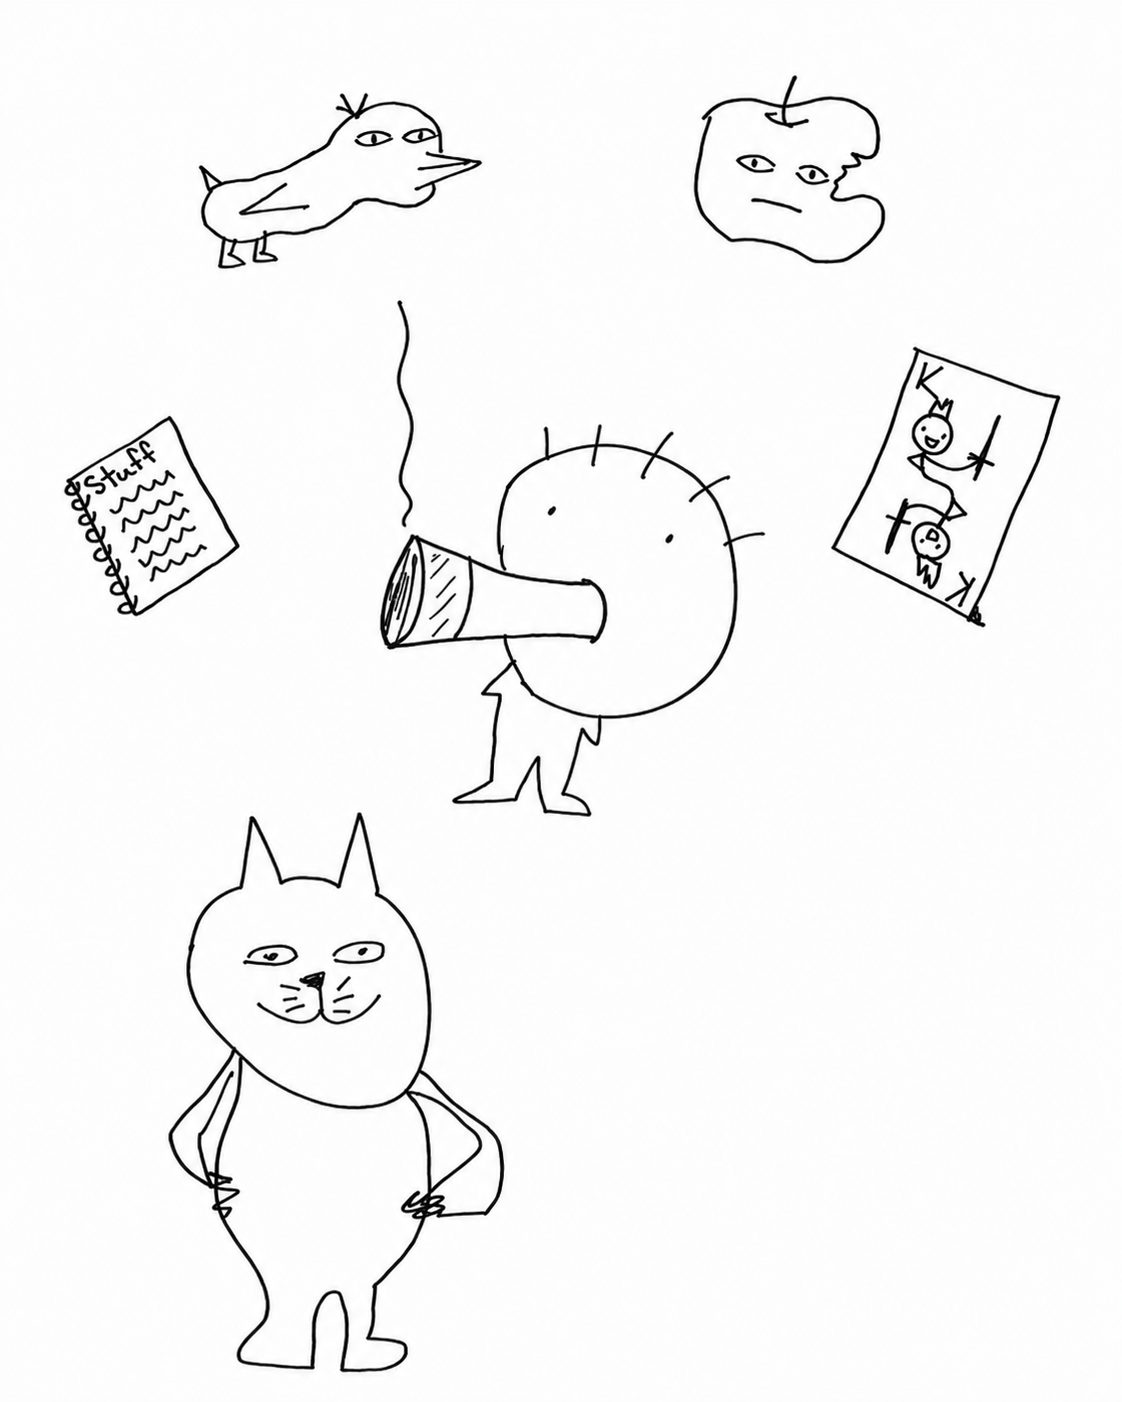
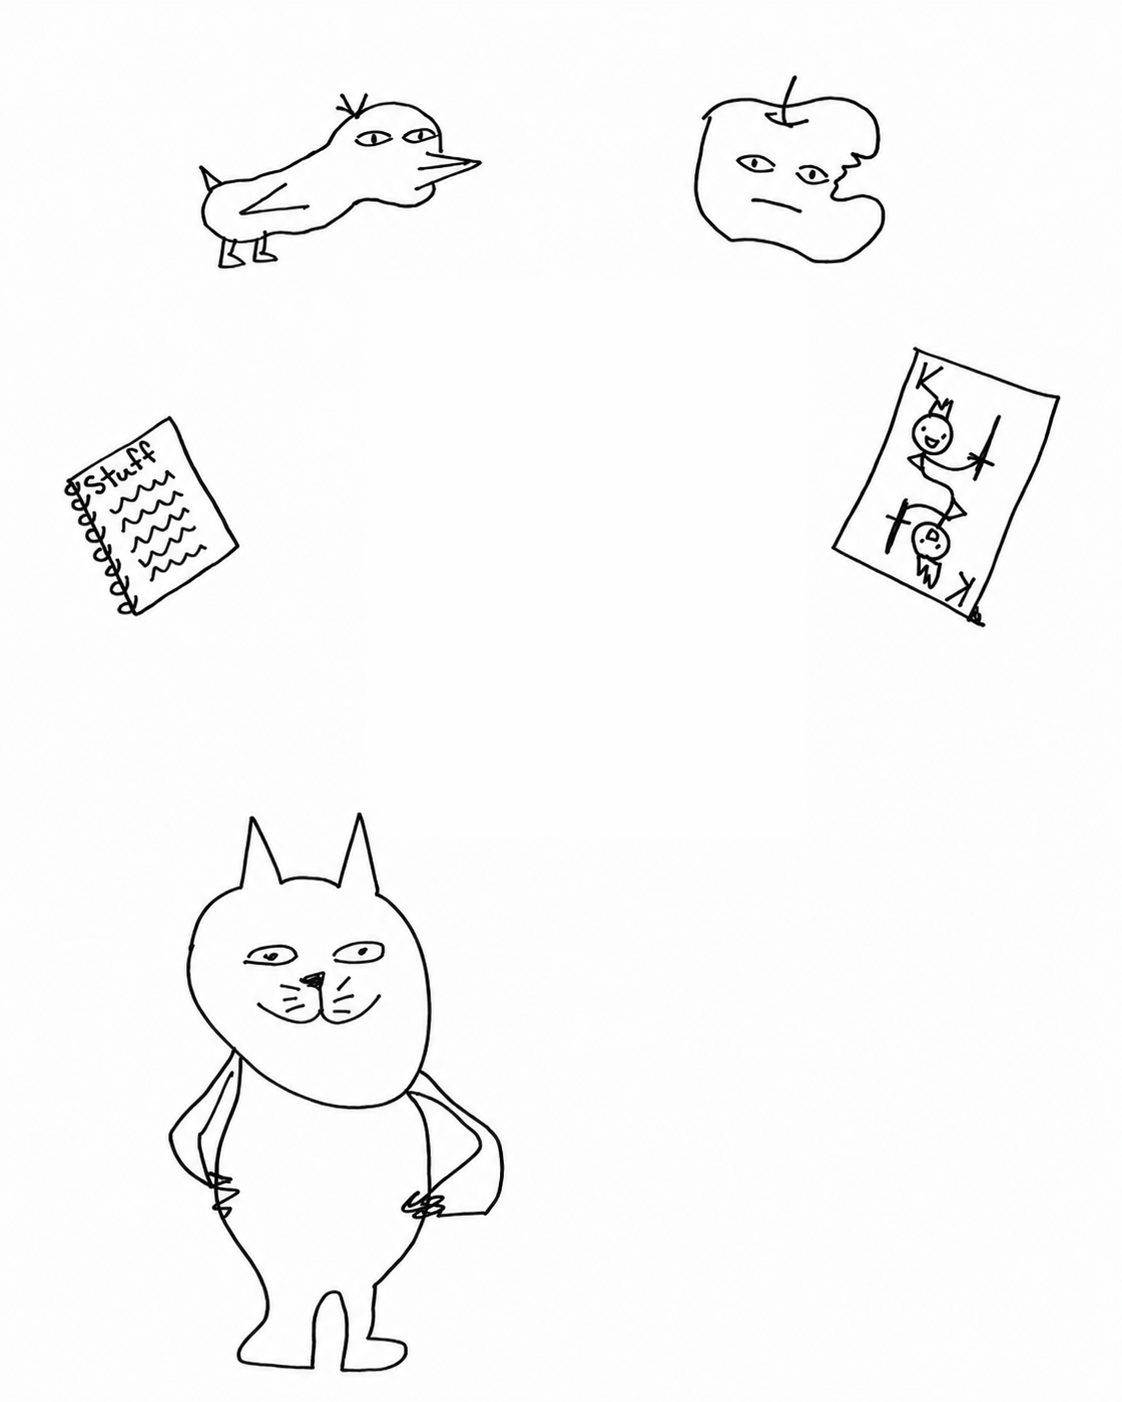
Put the new board doodle where the megaphone guy was
The LinkedIn hotspot was an invisible region over the megaphone guy, who
lived in the portrait raster, so handing the slot to the face pinned to
the board today meant erasing his ink first: body, megaphone, its
hatching, the eyes and the wisp above him, out of me.png with the jpg
and webp re-encoded from it at the quality they were made with. The
erase window stops short of the cat's right ear where it pokes into
that corner.

The doodle arrives the way the Bart hint did — board strokes through the
board's own path builder, simplified to a sub-pixel tolerance, scaled
into the same 1024-unit space. Its native pen weight would render at
~6.5px, so the stroke-width is 6.4 viewBox units, which lands on the
~2 CSS px line the bird and the cat are drawn with at 34% of the paper.
The hotspot drops its height so the drawing's own aspect sets the hit
box, and the link gets an aria-label now that it holds no text.

diff --git a/index.html b/index.html
@@ -249,7 +249,7 @@
         .bird     { top: 6%;  left: 18%;  width: 24%; height: 16%; }
         .apple    { top: 5%;  right: 16%; width: 18%; height: 16%; }
         .notebook { top: 27%; left: 4%;   width: 22%; height: 18%; }
-        .linkedin { top: 28%; left: 30%;  width: 38%; height: 32%; }
+        .linkedin { top: 32%; left: 34%;  width: 34%; }
         .card     { top: 24%; right: 6%;  width: 22%; height: 18%; }
         .cat      { top: 55%; left: 14%;  width: 34%; height: 38%; }
 
@@ -329,6 +329,18 @@
         }
 
         .doodle-hint svg {
+            display: block;
+            width: 100%;
+            height: auto;
+        }
+
+        /* The face from the doodle board, standing in for the megaphone guy
+           the portrait used to carry here. Same ink and the same pen weight as
+           the rest of the drawing: the stroke-width is set in the SVG's own
+           1024-unit space, so at 34% of the paper it lands on the ~4px line
+           the bird, cat and notebook are drawn with. No height — the drawing's
+           own aspect sets it, and the hit target with it. */
+        .linkedin svg {
             display: block;
             width: 100%;
             height: auto;
@@ -968,7 +980,7 @@
                 <a href="https://x.com/haroldliski" class="hotspot bird" data-label="twitter" target="_blank" rel="noopener noreferrer"></a>
                 <a href="#ios"       class="hotspot apple"    data-label="ios"       data-pan="ios"></a>
                 <a href="/writings"  class="hotspot notebook" data-label="writings"  data-pan="writings"></a>
-                <a href="https://linkedin.com/in/hanyangli2" class="hotspot linkedin" data-label="linkedin" target="_blank" rel="noopener noreferrer"></a>
+                <a href="https://linkedin.com/in/hanyangli2" class="hotspot linkedin" data-label="linkedin" aria-label="linkedin" target="_blank" rel="noopener noreferrer"><svg viewBox="225 255 638 507" xmlns="http://www.w3.org/2000/svg" aria-hidden="true"><g fill="none" stroke="#1a1a1a" stroke-width="6.4" stroke-linecap="round" stroke-linejoin="round"><path d="M298 664Q280 646 276 638Q273 630 267 608Q262 586 260 572Q259 558 259 539Q260 521 263 507Q267 493 270 485Q273 477 284 458Q296 439 307 425Q318 412 330 399Q342 387 357 374Q372 362 382 357Q392 352 409 346Q426 340 451 337Q476 334 500 334Q524 335 555 338Q587 342 629 351Q671 361 688 368Q705 375 715 380Q725 385 738 394Q752 403 760 412Q769 422 774 431Q779 440 780 446Q782 453 784 477Q786 501 785 521Q784 542 780 561Q777 580 770 607Q763 635 758 650Q753 666 746 678Q740 691 734 698Q729 706 717 716Q705 726 679 735Q654 744 623 744Q592 745 576 743Q560 741 539 740Q518 740 512 739Q507 738 451 737Q396 736 388 734Q381 733 359 725Q338 717 334 714Q330 712 321 700Q312 689 307 676L303 664"/><path d="M384 545Q373 541 371 539Q369 537 369 534Q369 531 370 529Q372 527 374 527Q376 527 378 529Q381 531 385 537Q390 543 390 545Q391 547 389 548Q387 550 385 549Q383 548 381 546Q379 545 377 540Q376 536 383 536L391 537"/><path d="M691 525Q687 524 685 519Q684 515 685 512Q686 509 688 508Q690 507 693 512Q696 517 695 519Q695 521 687 518Q680 516 678 514Q676 513 678 512Q681 512 680 515L680 518"/><path d="M347 605Q351 608 365 614Q379 620 412 631Q445 642 461 646Q477 650 503 652Q529 655 552 655Q575 655 587 652Q600 650 614 648Q628 647 646 642Q664 637 686 628Q708 620 718 612L728 605"/><path d="M338 396Q384 381 407 374Q431 368 455 362Q479 356 493 353Q508 351 523 349Q539 347 624 341Q710 336 768 330Q826 325 836 323L847 321"/><path d="M355 373Q370 361 377 357Q384 353 383 355Q383 358 375 362Q367 366 360 368Q353 370 339 371Q325 373 327 372Q330 371 336 370Q342 370 383 368Q424 366 451 366Q478 367 468 368Q458 370 434 369Q411 368 415 365Q420 362 431 357Q443 353 439 355Q436 358 426 362Q416 367 412 367Q408 368 393 372Q378 377 373 377Q368 377 364 371Q361 365 360 362Q359 359 359 355Q359 352 360 343Q362 334 368 326Q374 319 383 311Q392 304 400 299Q409 294 417 290Q425 287 455 280Q485 273 501 272Q518 271 533 279Q549 288 553 294Q558 300 562 308Q566 317 567 324Q569 332 569 338Q569 345 561 345Q554 346 514 344Q475 343 479 340Q483 337 487 335Q492 334 503 328Q515 322 487 327Q459 333 449 333Q439 333 442 328Q446 324 467 308Q489 292 485 301Q481 310 467 333Q453 357 445 367Q437 378 433 378Q429 379 426 376Q423 374 420 369Q418 364 418 359Q418 355 419 352Q420 349 421 346Q423 343 428 336Q434 330 437 327Q440 325 448 321Q457 318 457 325Q457 332 453 339Q450 346 446 351Q442 357 436 359Q431 362 422 361Q413 360 407 357Q402 354 399 351Q397 348 396 341Q396 335 397 333Q398 331 405 327Q412 324 418 323Q425 323 430 324Q435 326 436 328Q438 330 436 336Q435 342 430 347Q425 353 421 354Q418 356 410 356Q402 356 393 353Q385 351 381 347Q378 344 378 341Q378 339 381 336Q385 334 394 331Q404 328 429 328Q454 329 464 330Q475 332 475 335Q475 338 469 344Q464 350 457 353Q450 357 442 359Q434 362 424 361Q414 361 408 355Q403 350 403 347Q403 344 406 336Q409 328 415 318Q422 308 426 304Q430 301 434 299Q438 298 442 296Q447 295 459 295Q472 295 482 297Q493 300 495 302Q498 304 499 307Q500 310 500 313Q500 316 498 320Q496 324 489 329Q482 334 477 335Q473 337 460 336Q447 335 438 332Q429 330 426 328Q424 327 423 324Q423 322 425 317Q427 312 434 307Q442 303 447 301Q452 300 466 299Q480 298 488 298Q497 299 514 302Q531 306 534 307Q537 309 538 314Q540 319 540 323Q540 328 538 333Q537 339 529 344Q521 349 518 349Q515 350 509 349Q504 349 502 345Q501 342 501 335Q501 328 505 312Q510 296 515 289Q521 283 526 283Q531 283 533 286Q536 289 536 291Q537 293 538 298Q539 304 538 310Q538 316 531 316Q525 317 521 316Q517 315 510 312Q504 310 503 308Q502 306 503 303Q504 300 508 298Q513 296 517 296Q521 297 524 299Q527 301 528 303Q530 305 532 311Q535 318 536 328Q538 339 538 334Q538 329 537 326Q536 323 531 311Q526 300 523 297Q520 294 518 292Q516 291 510 289Q505 287 489 287Q473 288 468 289Q464 291 458 296Q452 301 449 305Q446 310 445 317Q444 324 446 327Q449 330 452 331Q456 332 469 331Q482 331 491 327Q501 324 503 320Q505 317 505 314Q505 312 503 310Q501 308 498 307Q495 306 472 305Q449 305 436 306Q424 308 419 310Q414 313 413 317Q413 321 413 323Q413 326 417 330Q421 335 429 337Q438 340 446 341Q454 342 458 341Q462 341 464 338Q467 336 468 332Q469 328 467 322Q465 316 459 313Q454 310 445 310Q436 310 433 311Q430 313 426 318Q422 323 417 339Q413 356 401 358Q389 361 383 364Q377 368 374 374Q371 380 369 381Q367 383 362 382Q358 382 353 383Q349 384 345 371Q341 358 341 354Q341 351 343 344Q346 338 352 333Q358 329 359 331Q361 333 360 338Q360 344 356 357Q353 370 347 383Q342 396 344 379Q347 362 348 357Q350 352 349 371Q349 390 354 369Q359 348 364 339Q369 330 373 325Q377 321 383 318Q389 315 398 313Q407 312 422 306Q438 301 451 298Q464 296 487 296Q510 297 520 302Q531 307 533 309Q536 312 538 317Q541 322 545 328Q550 334 551 331Q553 329 553 321Q553 313 551 309Q550 305 551 312Q552 319 554 325Q556 331 557 325Q558 319 555 312Q553 306 552 309Q552 313 554 325Q556 337 557 339Q558 341 558 339Q558 337 556 330Q555 324 555 331L556 338"/><path d="M347 394Q337 398 326 407Q316 416 313 419Q311 422 308 426Q305 430 301 444Q297 458 295 461Q293 464 288 469Q283 474 270 480Q257 486 252 489Q248 492 246 494Q244 497 243 522L242 548"/><path d="M379 396Q377 407 376 426Q375 446 381 445Q387 444 389 442L391 440"/><path d="M446 364Q453 385 458 395Q463 406 466 410Q469 414 471 413L473 412"/><path d="M489 386Q506 411 511 422Q517 433 518 428Q520 424 523 401L526 378"/><path d="M541 372Q554 391 560 396Q567 401 569 403L571 406"/><path d="M561 350Q590 357 626 372Q663 388 684 399Q705 410 732 428Q760 447 770 455Q780 464 782 466Q784 468 781 468Q779 469 770 465L762 462"/><path d="M535 457Q529 473 526 489Q524 505 523 514Q522 523 522 541Q522 559 532 555Q543 551 551 551Q560 551 564 552Q568 554 569 560Q571 567 568 571Q566 575 564 577Q562 579 559 580Q557 581 553 582Q549 583 538 583Q528 583 526 581L524 580"/></g></svg></a>
                 <a href="/poker"     class="hotspot card"     data-label="poker"     data-pan="poker"></a>
                 <a href="/projects"  class="hotspot cat"      data-label="cool stuff" data-pan="projects"></a>
 
